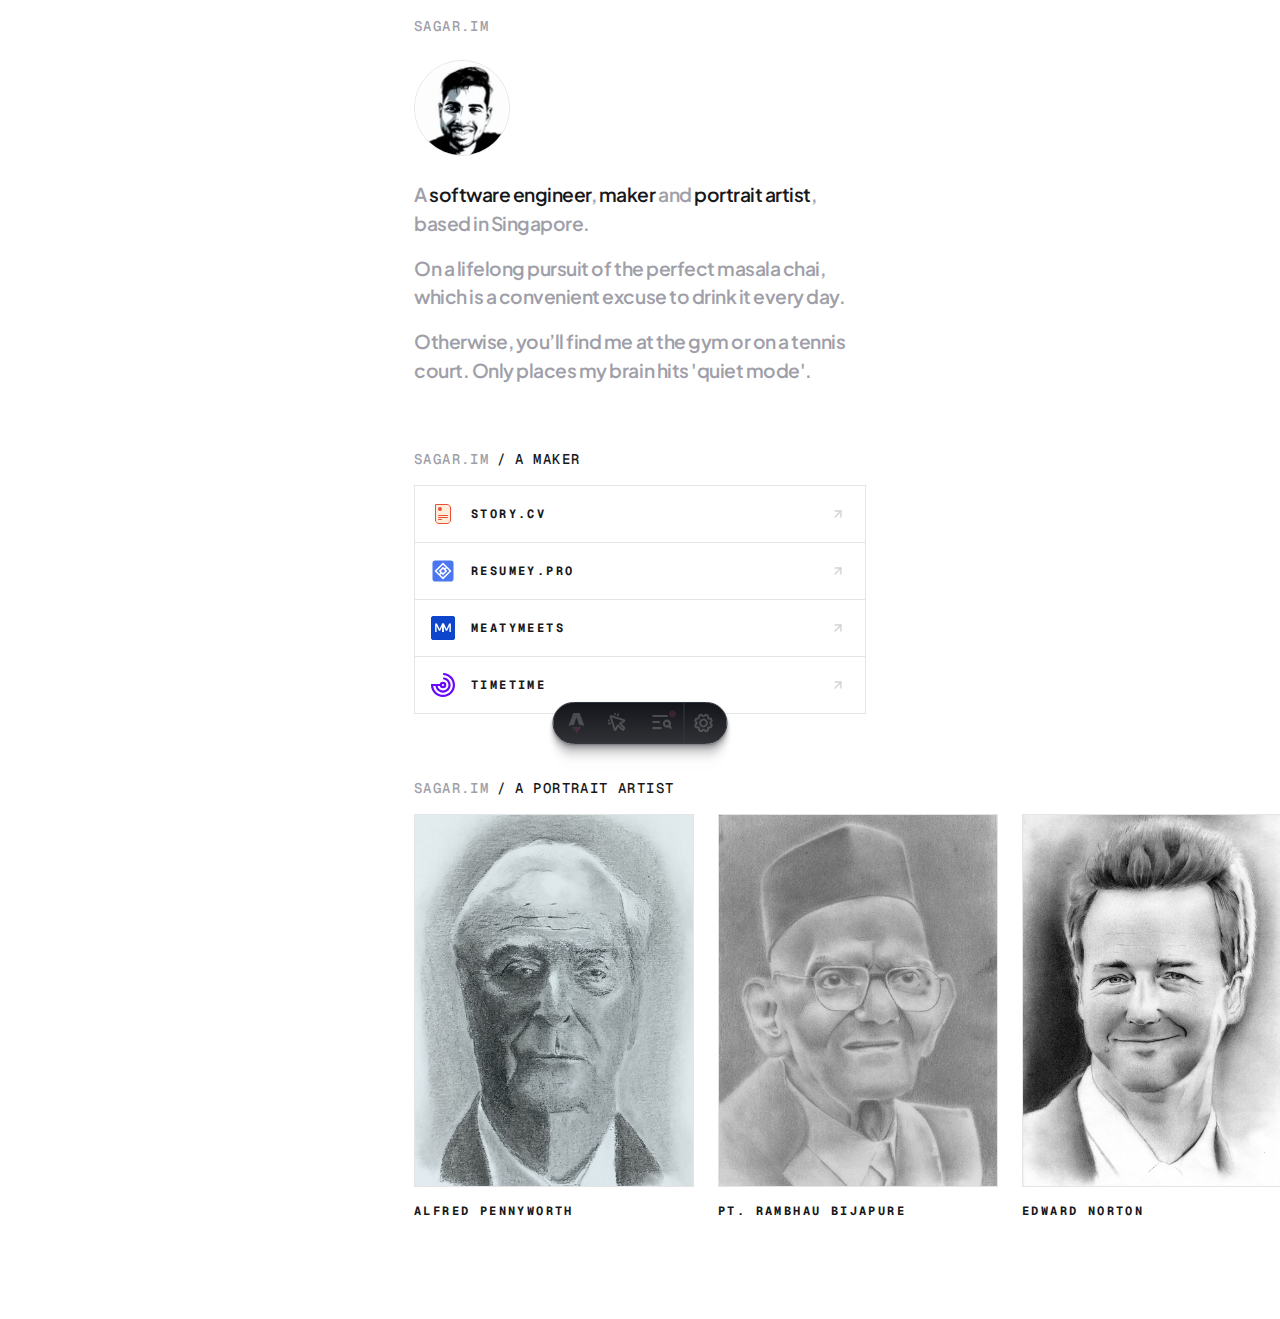
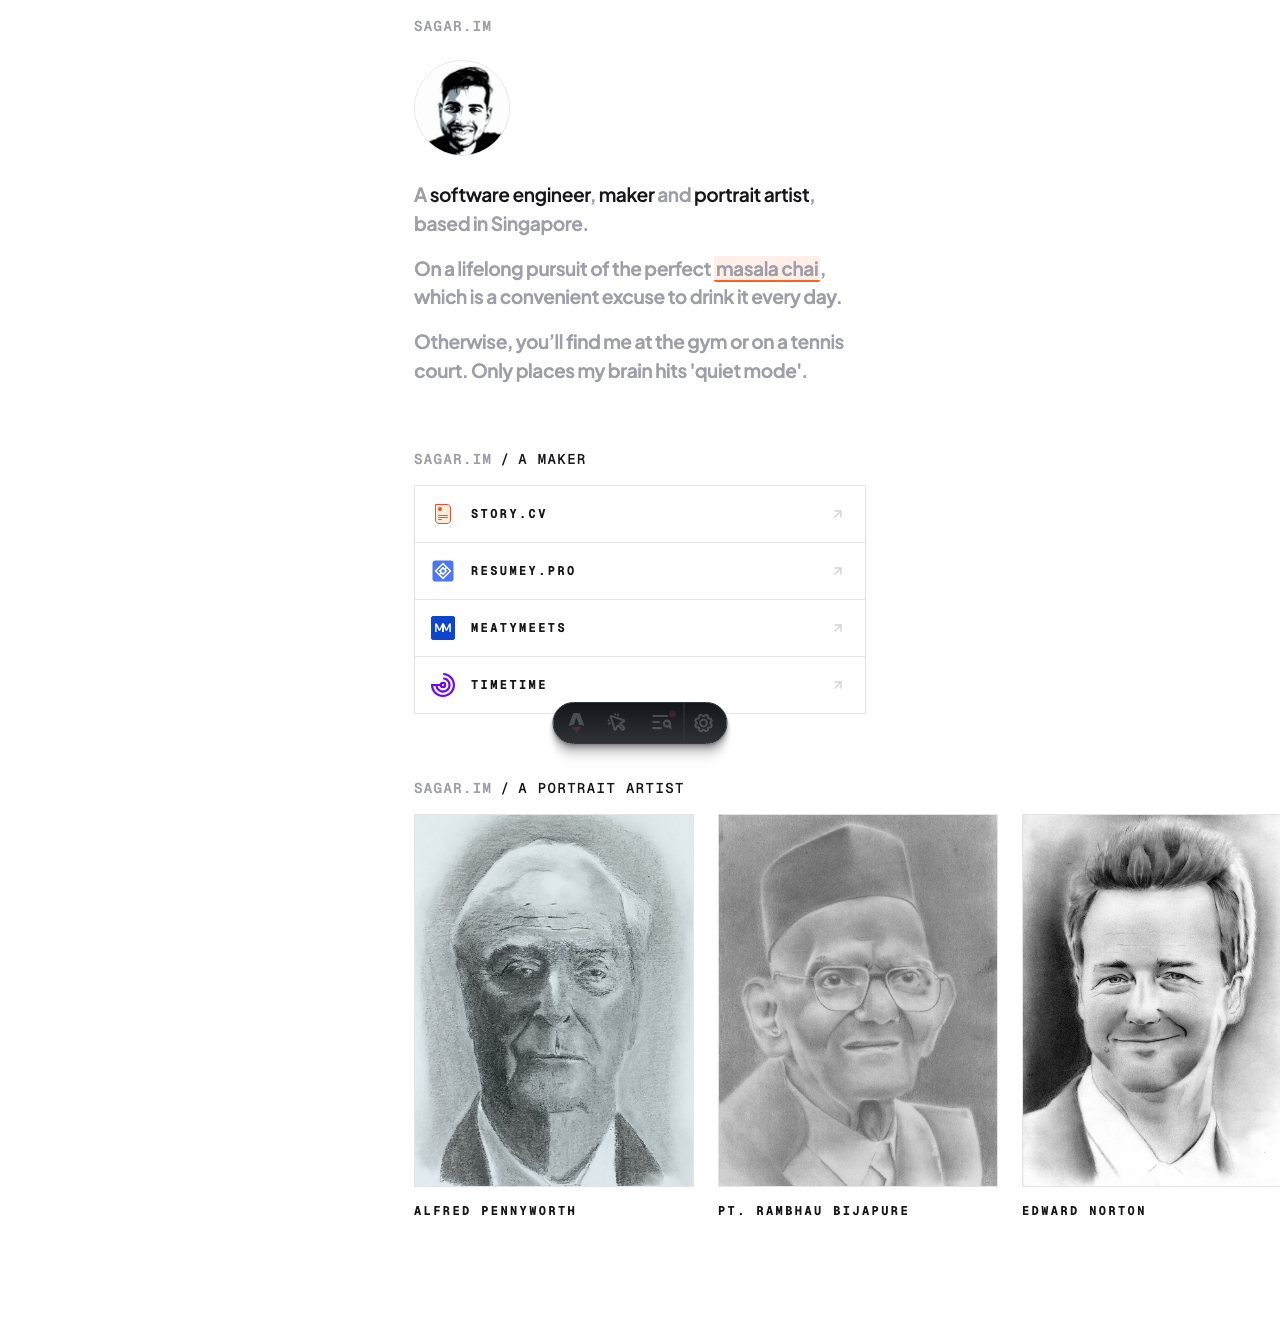
Fixing the comment setup.

diff --git a/src/styles/global.css b/src/styles/global.css
@@ -6,9 +6,14 @@
   --color-primary: #ff5f1f;
 }
 
+body {
+  @apply font-plus;
+}
+
 @utility no-scrollbar {
   -ms-overflow-style: none;
   scrollbar-width: none;
+
   &::-webkit-scrollbar {
     display: none;
   }
@@ -21,80 +26,10 @@
   padding: 0 2px;
   cursor: pointer;
   transition: background-color 0.2s;
+  position: relative;
+  z-index: 50;
 }
 
 [data-comment]:hover {
   background-color: color-mix(in srgb, var(--color-primary) 20%, transparent);
-}
-
-.page-comment {
-  font-size: 13px;
-  color: #18181b;
-  background-color: #ffffff;
-  padding: 12px;
-  margin-bottom: 1.5rem;
-  position: relative;
-  z-index: 100;
-  display: block;
-  font-style: normal;
-  border-left: 3px solid var(--color-primary);
-  box-shadow: 0 4px 12px rgba(0, 0, 0, 0.08), 0 0 1px rgba(0, 0, 0, 0.1);
-  border-radius: 0 4px 4px 0;
-}
-
-@media (min-width: 1200px) {
-  .page-comment {
-    position: absolute;
-    left: calc(100% + 40px);
-    width: 300px;
-    margin-bottom: 0;
-  }
-}
-
-.page-comment-header {
-  display: flex;
-  align-items: center;
-  gap: 8px;
-  margin-bottom: 8px;
-}
-
-.page-comment-avatar {
-  width: 20px;
-  height: 20px;
-  border-radius: 50%;
-  object-fit: cover;
-}
-
-.page-comment-author {
-  font-family: var(--font-plus);
-  font-weight: 600;
-  font-size: 12px;
-  color: #444;
-}
-
-.page-comment-body {
-  font-family: "Geist Mono", ui-monospace, SFMono-Regular, Menlo, Monaco, Consolas, "Liberation Mono", "Courier New", monospace;
-  line-height: 1.5;
-}
-
-.page-comment-body::before {
-  content: "# ";
-  font-weight: bold;
-  color: var(--color-primary);
-}
-
-.page-comment-close {
-  position: absolute;
-  top: 8px;
-  right: 8px;
-  cursor: pointer;
-  font-size: 12px;
-  color: #71717a;
-  opacity: 0.5;
-  padding: 4px;
-  line-height: 1;
-}
-
-.page-comment-close:hover {
-  opacity: 1;
 }
